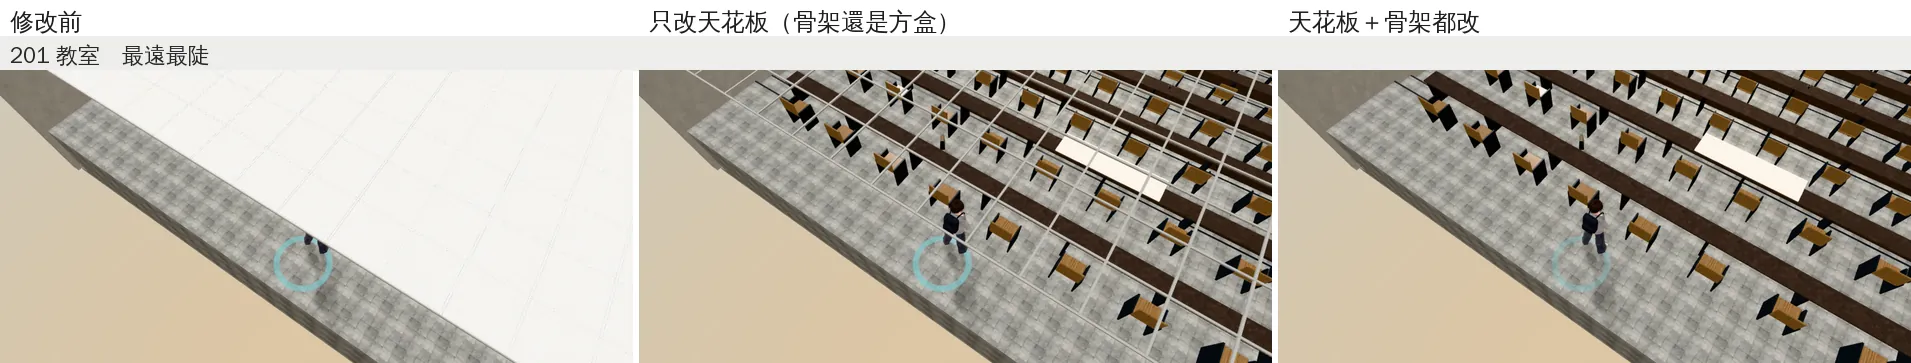
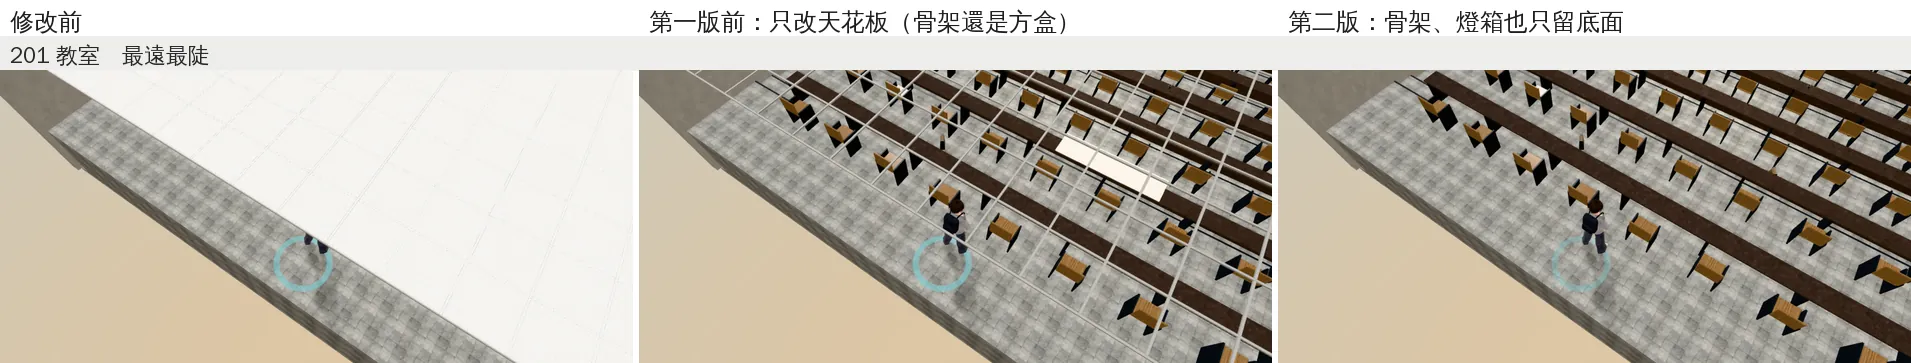
WIP 檢查點（從下面看的前後 j46 拍中，還沒交件）：天花板第二版的說明、遊戲內前後（j45：我的四間拉到最遠白格子不見、LAWWW 三間燈板燈箱不見、預設鏡頭不變）；ceiling_lights.diff（對開發分支 4d3a305d）；ceiling_more.diff 還原成已整合的第一版；outbox 三筆改已整合／已驗收（LAWWW 09:37）；巡查表第 2 區巡過一輪、第 11 節已整合
Claude-Session: https://claude.ai/code/session_01AC1WVgJSmoJK1uRsPK2Zn1

diff --git a/docs/art-rebuild/second_ai/test_shots/ceil_more_1022/README.md b/docs/art-rebuild/second_ai/test_shots/ceil_more_1022/README.md
@@ -1,99 +1,114 @@
-# LAWWW 的四個室內：鏡頭拉到最遠時不再是一整片白（ART-CEIL-LAWWW-ROOMS-1022）
+# 室內天花板：鏡頭拉到最遠時不再是一整片白、不再浮著白格子（ART-CEIL-LAWWW-ROOMS-1022，第二版）
 
-帳號 A 的 LAWWW2，2026-10-22 09:0x～09:3x UTC。
+帳號 A 的 LAWWW2，2026-10-22 09:0x～10:0x UTC。
 
-- **狀態**：交件；`READY_FOR_ART_REVIEW`（場景美術由使用者驗收）。
-  - `patches/ceiling_more.diff` 只改 `tests/room_ceiling_unit.js`，對開發分支 `2181fe4d` 乾淨。
-  - 四份 GLB 同檔名替換，遊戲的程式不用改。
-- **派工**：LAWWW 08:34（P2）——201 教室、男宿門廳、霖澤館二樓、萬才館二樓的天花板，照 118 巷那次的做法改（cull＋朝下、重新匯出），交件附鏡頭拉到最遠、最陡的前後。
-- **起因**：
-  - 10-22 的天花板盤點（j36c，`l118_arcade_1022/README.md`「其他室內的天花板盤點」）。
-  - 這四間雙指拉到最遠（6 m）、往上拖到最陡（俯角 1.05）時，鏡頭在天花板上面，整個畫面是天花板的背面。
+- **狀態**：
+  - 第一版（`63d4a3e3`：201 教室、男宿門廳、霖澤館、萬才館的天花板）LAWWW 已接進開發分支 `4d3a305d`。
+  - **第二版交件**：`READY_FOR_ART_REVIEW`（場景美術由使用者驗收）。
+    - `patches/ceiling_lights.diff` 只改 `tests/room_ceiling_unit.js`，對開發分支 `4d3a305d` 乾淨。
+    - 七份 GLB 同檔名替換，遊戲的程式不用改。
+- **派工**：LAWWW 08:34（P2）——四個房間的天花板，照 118 巷那次的做法改，交件附鏡頭拉到最遠、最陡的前後。第二版是我順手做的同一件事：
+  - 天花板上的燈也改；
+  - 我自己的博雅、普通、總圖 3F、法律學院圖書館的天花板格子也改（10-22 盤點記的 P3）。
+- **起因**：10-22 的天花板盤點（j36c，`l118_arcade_1022/README.md`「其他室內的天花板盤點」）。
+  - 雙指拉到最遠（6 m）、往上拖到最陡（俯角 1.05）時，鏡頭在天花板上面。
+  - LAWWW 的四間：整個畫面是天花板的背面。
+  - 我的四間：天花板本來就是單面，但輕鋼架、燈框是方盒，從上面看是浮在房間上面的白格子。
 
 ## 改了什麼
 
-### Blender 腳本（`tools/blender/`，LAWWW 的腳本，D100、D108 派給 LAWWW2 改）
+### Blender 腳本
 
-| 腳本 | 改法 |
-|---|---|
-| `classroom_201.py` | ①天花板材質 `cls_ceiling` 單面（`cull=True`）；②**天花板的 T 型骨架**（`cls_grid`）只留底面、單面朝下（下面說明） |
-| `dorm_hall.py` | 天花板材質 `dm_ceiling` 單面 |
-| `linze_interior.py` | 天花板材質 `ceiling` 單面 |
-| `wancai_interior.py` | 天花板材質 `wc_ceiling` 單面 |
+| 腳本 | 第一版 | 第二版 |
+|---|---|---|
+| `tools/blender/classroom_201.py` | 天花板 `cls_ceiling` 單面；T 型骨架 `cls_grid` 只留底面、單面朝下 | 燈箱 `cls_light`（2 cm 方盒）只留底面、單面朝下 |
+| `tools/blender/dorm_hall.py` | 天花板 `dm_ceiling` 單面 | 不變（下面說明） |
+| `tools/blender/linze_interior.py` | 天花板 `ceiling` 單面 | 燈板、崁燈 `light_panel` 單面 |
+| `tools/blender/wancai_interior.py` | 天花板 `wc_ceiling` 單面 | 燈板、崁燈 `wc_light_panel` 單面 |
+| `tools/blender/env_second/teach_interior.py`（博雅、普通） | — | 輕鋼架、燈框 `tb_ceiling_grid` 只留底面、單面朝下；燈板 `tb_light_panel` 單面 |
+| `tools/blender/env_second/library_3f.py`（總圖 3F） | — | 同上（`l3_ceiling_grid`、`l3_light_panel`） |
+| `tools/blender/lawlib_interior.py`（法律學院圖書館） | — | 同上（`ll_ceiling_grid`、`ll_light_panel`） |
 
-- 四個腳本的天花板四邊形本來就朝下，只差材質是雙面（glTF 匯出時 `doubleSided`＝不剔除背面）。
-- **201 的 T 型骨架**：
-  - 原本是 2.4 cm × 1.9 cm 的方盒，每 0.6 m 一條，共 57 條。
-  - 只改天花板（第一次匯出）以後，鏡頭在上面時看到方盒的頂面：整間教室蓋著一層白格子（下面第二張圖的中間那張）。
-  - 改成只留原本方盒的底面、單面朝下：從下面看位置、顏色、寬度一樣，從上面看不到。
-  - 交叉的地方 z 向那一條低 1 mm，不疊面。
+- 天花板、燈板的四邊形本來就朝下，只差材質是雙面（glTF 匯出時 `doubleSided`＝不剔除背面）。
+- 輕鋼架、燈框、燈箱原本是 1.2～2.4 cm 高的方盒，鏡頭在上面時看到方盒的頂面。
+  - 改成只留原本方盒的底面、單面朝下。從下面看位置、顏色、寬度一樣，從上面看不到。
+  - 交叉的地方，一個方向低 0.5～1 mm，不疊面。
+- 男宿門廳的日光燈是吸頂式燈具，有 6 cm 高的燈座，從下面看得到側面，所以沒有改。
 
-### GLB（`assets/models/env/`，同檔名）
+### GLB（和開發分支 `4d3a305d` 比）
 
-- 比對方法：用遊戲的格式讀修改前（開發分支 `2181fe4d`）和修改後的 GLB，逐份比對。
+- 比對方法：用遊戲的格式讀 GLB，逐個網格比頂點、索引、節點位置，貼圖也比。
 
 | GLB | 大小（bytes） | 改了什麼 | 其他 |
 |---|---|---|---|
-| `classroom_201.glb` | 1,566,312 → 1,526,360 | `cls_ceiling` 不再雙面；`cls_grid` 不再雙面，三角形 684 → 114 | 其他 28 個網格（含節點位置、椅子的 GPU instancing）、17 張貼圖逐位元組相同 |
-| `dorm_hall.glb` | 3,297,360 → 3,297,340 | `dm_ceiling` 不再雙面 | **幾何資料逐位元組相同**（三角形 18,490） |
-| `linze_interior.glb` | 2,001,860 → 2,001,840 | `ceiling` 不再雙面 | 幾何資料逐位元組相同（5,528） |
-| `wancai_interior.glb` | 2,514,392 → 2,514,372 | `wc_ceiling` 不再雙面 | 幾何資料逐位元組相同（7,130） |
+| `assets/models/env/classroom_201.glb` | 1,526,360 → 1,509,536 | `cls_light` 不再雙面，三角形 288 → 48 | 其他網格、貼圖逐位元組相同 |
+| `assets/models/env/linze_interior.glb` | 2,001,840 → 2,001,820 | `light_panel` 不再雙面 | 幾何資料逐位元組相同 |
+| `assets/models/env/wancai_interior.glb` | 2,514,372 → 2,514,352 | `wc_light_panel` 不再雙面 | 幾何資料逐位元組相同 |
+| `assets/models/env/lawlib_interior.glb`（＋`.json`） | 2,772,292 → 2,670,380 | `ll_ceiling_grid` 三角形 1,820 → 310、不再雙面；`ll_light_panel` 不再雙面 | 其他網格、貼圖逐位元組相同 |
+| `assets/models/env/second_ai/boya_interior.glb`（＋`.json`） | 1,319,728 → 1,106,496 | `tb_ceiling_grid` 3,860 → 662、不再雙面；`tb_light_panel` 不再雙面 | 同上 |
+| `assets/models/env/second_ai/putong_interior.glb`（＋`.json`） | 1,043,836 → 846,480 | `tb_ceiling_grid` 3,578 → 614、不再雙面；`tb_light_panel` 不再雙面 | 同上 |
+| `assets/models/env/second_ai/library_3f.glb`（＋`.json`） | 1,461,620 → 1,404,888 | `l3_ceiling_grid` 972 → 162、不再雙面；`l3_light_panel` 不再雙面 | 同上 |
 
-### 測試（`patches/ceiling_more.diff`：`tests/room_ceiling_unit.js`）
+- 男宿門廳 `dorm_hall.glb` 第二版沒有改（開發分支的就是第一版）。
+- **注意（博雅、普通）**：
+  - 這兩份要在開發分支的工作樹匯出。我的分支的 `src/data/boya_layout.js`、`putong_layout.js` 是 10-13 的舊版，少了 10-16「空橋走得過去」那一筆。
+  - 用舊的配置匯出，會把空橋那扇門做回去（第一次試匯出時比對出來：牆、門、踢腳板都跟著變了）。
+  - 七份都是在開發分支 `2181fe4d` 的工作樹匯出的。這幾份配置檔在 `2181fe4d` 和 `4d3a305d` 之間沒有變。
 
-- LAWWW 已經接了第三版（機場出境／入境、美國大超市）。這一份是**在那之上**的增量：
-  - 多驗 LAWWW 的四份（`assets/models/env/`，清單寫 `../classroom_201` 等）。
-  - 2 m 以上、水平的天花板三角形每一層都驗：男宿門廳一樓的天花板比二樓低，原本只驗最上面 0.3 m，會漏掉一樓。
-  - 「朝下」的門檻從法線離正下方 8° 放寬到 25°：多驗每一層以後，機場出境的弧形天花板有 8°～14° 斜的板子也算進來了。
-  - 第②項（天花板那一層沒有雙面的一大片）的高度照舊用最上面那一層。
-  - `cls_grid`（201 的 T 型骨架）也算天花板。
+### 測試（`patches/ceiling_lights.diff`：`tests/room_ceiling_unit.js`）
+
+- 在 `4d3a305d` 的版本（＝第一版）之上：
+  - 多驗博雅、普通、總圖 3F、法圖四份。
+  - 「天花板」多算三種材質：
+    - `ceiling_grid`：輕鋼架、燈框；
+    - `light_panel`：嵌在天花板的燈板；
+    - `cls_light`：201 的燈箱。
+  - 都要單面、朝下。
 
 | 測試＋模型 | 結果 |
 |---|---|
-| 開發分支的測試＋開發分支的模型 | ALL PASS（不含這四份） |
-| **新測試＋開發分支的四份**（修改前） | **FAIL 8**：四份各兩項都不過（201：686／686 個三角形雙面） |
-| 新測試＋只改天花板的 201（j42 拍的那一版） | FAIL 1：`cls_grid` 684 個三角形雙面 |
-| **新測試＋新的四份** | **ALL PASS**（33 份 GLB、66 項） |
-| 開發分支的測試＋新的四份 | ALL PASS（新模型不會讓舊測試失敗） |
+| 開發分支 `4d3a305d` 的測試＋開發分支的模型 | ALL PASS |
+| **新測試＋開發分支 `4d3a305d` 的模型** | **FAIL 7**：201、霖澤館、萬才館（燈板、燈箱雙面）；博雅、普通、總圖 3F、法圖（輕鋼架、燈框、燈板雙面） |
+| 新測試＋第一版以前的模型（`2181fe4d`） | FAIL 12 |
+| **新測試＋第二版的模型** | **ALL PASS**（37 份 GLB、74 項） |
+| 開發分支的測試＋第二版的模型 | ALL PASS |
 
-- `node tests/nav_buildings_unit.js`：ALL PASS（j42：開發分支 `5aa16a70`＋新的四份；導航不讀 GLB，只是確認）。
+- `node tests/nav_buildings_unit.js`：ALL PASS（j45，開發分支 `2181fe4d`＋第二版的模型）。
 
 ## 遊戲內前後
 
-- Playwright＋SwiftShader，844×390（手機橫向）、像素比 2，**不是 iPhone**。15:00，路人藏起來。
-- 修改前：開發分支 `5aa16a70`（j42）。這四間的 GLB 和 `src/` 在 `5aa16a70` 和 `2181fe4d` 之間只差 `character3d.js`（沛珊的裙子），和這四間無關。
-- 修改後：
-  - 男宿門廳、霖澤館二樓、萬才館二樓：換新的 GLB（j42）。
-  - 201 教室：開發分支 `2181fe4d`＋最後一版 GLB（j43，T 型骨架也改了）。
+- Playwright＋SwiftShader，844×390（手機橫向）、像素比 2，**不是 iPhone**。15:00，路人藏起來；人站在各區的出生點。
 - 鏡頭：
   - 「最遠最陡」：距離 6 m、俯角 1.05（雙指能拉到的最遠、往上拖到最陡）。
   - 「預設」：進門時的鏡頭。
-- 人物都站在該區的出生點。
+- 博雅、普通、總圖 3F、法圖：j45，修改前＝開發分支 `2181fe4d`（這四份模型和 `4d3a305d` 相同），修改後＝換第二版的模型。
+- LAWWW 的四間：
+  - 修改前：j42，開發分支 `5aa16a70`（第一版以前）。
+  - 修改後：j45，第二版。男宿門廳第二版沒有改，用 j42 第一版的圖。
 
-### 最遠最陡
+### 我的四間：最遠最陡
+
+![](mine_max_before_after.webp)
+
+### 我的四間：預設鏡頭（確認沒有變）
+
+![](mine_default_before_after.webp)
+
+### LAWWW 的四間：最遠最陡
 
 ![](rooms_max_before_after.webp)
 
-- 修改前：四間都是一整片白（天花板的背面）。
-- 修改後：看得到房間裡面和人。
-- 天花板上的燈具還是浮著，和其他室內一樣（下面「還不到的地方」）：
-  - 男宿門廳：日光燈；
-  - 霖澤館二樓：燈箱；
-  - 萬才館二樓：門口上方的燈。
-
-### 201 教室的 T 型骨架
+### 201 教室：骨架、燈箱
 
 ![](classroom_grid.webp)
 
 - 左：修改前。
-- 中：只改天花板，教室蓋著一層白格子。
-- 右：骨架也改，看得到整間教室。
+- 中：第一版以前，只改天花板，教室蓋著一層白格子。
+- 右：第二版，骨架、燈箱也只留底面。
 
-### 預設鏡頭（確認沒有變）
+### LAWWW 的四間：預設鏡頭（確認沒有變）
 
 ![](rooms_default_before_after.webp)
-
-- 四間從下面看天花板、骨架、燈的樣子都和原本一樣。
 
 ### 機場出境／入境、美國大超市（第三版，LAWWW 已接進 `2181fe4d`）
 
@@ -102,16 +117,22 @@
 - j41，開發分支 `5aa16a70`（修改前）／換三份 GLB（修改後），最遠最陡。
 - 第三版交件時還沒有遊戲內的圖，補在這裡。
 
-## 接法（LAWWW）
+## 接法（LAWWW，第二版）
 
-1. `git apply docs/art-rebuild/second_ai/patches/ceiling_more.diff`（只有 `tests/room_ceiling_unit.js`），對開發分支 `2181fe4d` 乾淨。
-2. 換四份 GLB（同檔名）：`assets/models/env/{classroom_201,dorm_hall,linze_interior,wancai_interior}.glb`。
-3. 腳本：`tools/blender/{classroom_201,dorm_hall,linze_interior,wancai_interior}.py`。
+1. `git apply docs/art-rebuild/second_ai/patches/ceiling_lights.diff`（只有 `tests/room_ceiling_unit.js`），對開發分支 `4d3a305d` 乾淨。第一版的 `ceiling_more.diff` 已經接了，不要再套。
+2. 換七份 GLB（同檔名）：
+   - `assets/models/env/{classroom_201,linze_interior,wancai_interior,lawlib_interior}.glb`
+   - `assets/models/env/second_ai/{boya_interior,putong_interior,library_3f}.glb`
+   - 匯出統計 `.json` 四份：`lawlib_interior`、`boya_interior`、`putong_interior`、`library_3f`。
+3. 腳本：
+   - `tools/blender/{classroom_201,linze_interior,wancai_interior,lawlib_interior}.py`
+   - `tools/blender/env_second/{teach_interior,library_3f}.py`
 4. 跑 `node tests/room_ceiling_unit.js`、`node tests/nav_buildings_unit.js`。
 
 ## 還不到的地方（誠實寫）
 
-- 鏡頭在天花板上面時，燈具從上面看是浮著的。和 118 巷、溫州街店家、便利商店一樣，看得進房間，但不是完全乾淨。
-  - 霖澤館二樓還看得到電梯車廂的頂（深色的一塊）。
-- 博雅、普通、總圖 3F、法律學院圖書館一樓的天花板格子、燈具從上面看是浮著的白線（我的 GLB，盤點時記的 P3），這次沒有改。
+- 鏡頭在天花板上面時，從上面還看得到這些：
+  - 男宿門廳的吸頂日光燈（6 cm 燈座）；
+  - 偵煙器、冷氣出風口（小的方塊、圓片）；
+  - 霖澤館二樓的電梯車廂頂。
 - 真機沒看過。

diff --git a/docs/art-rebuild/second_ai/ART_DIRECTOR_PATROL.md b/docs/art-rebuild/second_ai/ART_DIRECTOR_PATROL.md
@@ -14,7 +14,7 @@
 |---|---|---|---|---|
 | 0 | 體育館（清查 A1、A2 順路） | 已交件（待 BB 驗收） | 7baa4587 | 見下面；`test_shots/gym_glow_1021/` |
 | 1 | 校園 | **巡查中** | 96af1e54 | 21 個位置 × 15:00／17:42／20:00；見下面第 1 節；三個時段都看完（`test_shots/patrol_campus_1021/`） |
-| 2 | 法律系館（霖澤館、萬才館） | 待巡 | | 202、多功能教室 10-21 精修過 |
+| 2 | 法律系館（霖澤館、萬才館） | **巡過一輪**（j26／j26b） | `c617b2e0`／`774f49c7` | 霖澤館一二樓、201、萬才館一二樓、法圖一二樓 × 15:00／20:00 共 24 張；「陷進地板、埋在台階裡」是截圖工具的問題（j26b 確認）；拉遠時天花板整片白／骨架浮著（第 11 節，已修）；萬才館直跑樓梯側面是一大片素面牆（P3，記錄）；202、3F、4F、多功能教室、研討室 A 在天花板那一批看過（j36b） |
 | 3 | 宿舍（男一舍、大一宿舍） | 待巡 | | 男一舍 5 層 10-21 交件 |
 | 4 | 公館 | 待巡 | | 清查 A5 陽台盆栽；BB-C 10-21 量：公館三角形 +15～19%（1a76148e→dffd55f2），draw call 沒變，查原因 |
 | 5 | 溫州街 | **巡查排隊中**（使用者 10-21 15:2x「溫州街修改直接收尾 舊店面翻修繼續」） | `d22748f5` | 主巷兩側 6 個位置 × 兩邊 × 15:00／20:00（佇列 j11 `wz0patrol`）；先修了 Café 兩個原本就有的錯（見第 5 節） |
@@ -98,10 +98,10 @@
 ## 11. 118 巷店家、室內天花板（2026-10-22，開發分支 `774f49c7`／`809ea58b`；佇列 j32、j34、j35、j36）
 | 毛病 | 優先 | 處理 |
 |---|---|---|
-| 118 巷九間店：天花板雙面、朝上；預設鏡頭只比天花板高 1 cm（看不到），雙指拉遠、往上拖時畫面上半一大片白（最陡時 49～62%） | P2 | **施工中**：天花板（含廚房）單面朝下（`lane118_shops.py`）；`test_shots/l118_arcade_1022/` |
-| 118 巷：進門時鏡頭在騎樓，門靠側牆的店畫面一側是店外的空白（出生點 15～33%、兩側前角 37～41%） | P2（每次進門的第一個畫面） | **施工中**：店門外兩側貼 118 巷街景拍的鄰居店面（`lane118_neighbors.py`），歸左右牆、`at`＝牆線（`patches/l118_arcade.diff`：`attachRoomGLB` 讀 `at`）；l118_arcade_unit 修改前 FAIL 54 → ALL PASS |
-| 日本宿舍房間：天花板 2.5 m、預設鏡頭 2.84 m，**一進門就在天花板上面**（雙面朝上） | P1 | **施工中**：`jp_dorm.py` 單面朝下；j36 遊戲內前後 |
-| 霖澤館 202／3F／4F、萬才館多功能教室、研討室 A：同一個寫法（3.2～3.4 m），拉遠就一大片白 | P2 | **施工中**：`flat_classroom.py`、`linze_upper.py`、`wancai_seminar.py` 單面朝下；`tests/room_ceiling_unit.js`（26 份室內 GLB）修改前 FAIL 30 → ALL PASS |
-| 其他室內（LAWWW 的霖澤館、萬才館、總圖大廳、男宿走廊、201 教室；我的機場、體育館 B1、美國超市、法學院圖書館…）：天花板／上一層樓板也是雙面 | 待盤點 | j36「拉到最遠最陡」截圖再分：真的會被看到的才修；多層樓建築的上一層樓板是要走的地板，不能改單面 |
+| 118 巷九間店：天花板雙面、朝上；預設鏡頭只比天花板高 1 cm（看不到），雙指拉遠、往上拖時畫面上半一大片白（最陡時 49～62%） | P2 | **已整合**（LAWWW `249ae526`）：天花板（含廚房）單面朝下（`lane118_shops.py`）；`test_shots/l118_arcade_1022/` |
+| 118 巷：進門時鏡頭在騎樓，門靠側牆的店畫面一側是店外的空白（出生點 15～33%、兩側前角 37～41%） | P2（每次進門的第一個畫面） | **已整合**（LAWWW `249ae526`）：店門外兩側貼 118 巷街景拍的鄰居店面（`lane118_neighbors.py`），歸左右牆、`at`＝牆線（`patches/l118_arcade.diff`：`attachRoomGLB` 讀 `at`）；l118_arcade_unit 修改前 FAIL 54 → ALL PASS |
+| 日本宿舍房間：天花板 2.5 m、預設鏡頭 2.84 m，**一進門就在天花板上面**（雙面朝上） | P1 | **已整合**（LAWWW `249ae526`）：`jp_dorm.py` 單面朝下；j36 遊戲內前後 |
+| 霖澤館 202／3F／4F、萬才館多功能教室、研討室 A：同一個寫法（3.2～3.4 m），拉遠就一大片白 | P2 | **已整合**（LAWWW `249ae526`）：`flat_classroom.py`、`linze_upper.py`、`wancai_seminar.py` 單面朝下；`tests/room_ceiling_unit.js`（26 份室內 GLB）修改前 FAIL 30 → ALL PASS |
+| 其他室內（LAWWW 的霖澤館、萬才館、總圖大廳、男宿走廊、201 教室；我的機場、體育館 B1、美國超市、法學院圖書館…）：天花板／上一層樓板也是雙面 | — | **盤點完（j36c）、修完**：機場出境／入境、美國大超市（LAWWW `2181fe4d` 已整合）；201、男宿門廳、霖澤館二樓、萬才館二樓第一版（`4d3a305d` 已整合）；第二版（燈板、燈箱）＋博雅、普通、總圖 3F、法圖的輕鋼架、燈框、燈板（10-22 09:5x 交件，`test_shots/ceil_more_1022/`）。多層樓建築的上一層樓板是要走的地板，不改 |
 | （j26 截圖）法學院晚上一樓主角陷進地板、201 教室門口主角埋在台階裡 | — | **截圖工具的問題**：`fast_shots.py` 設位置時 y＝0、樓層沿用上一張（照區域排序，二樓那張之後的一樓）；已修（`e2f297de`：照 `pos.lv`、`E.settleY`）；**j26b 重拍確認**（開發分支 `774f49c7`）：8 張主角都站在地板上（晚上一樓大廳、樓梯、萬才館、法圖、201 門口） |
 | （j11 溫州街 24 張，白天、晚上） | — | 沒有新的 P1 |
